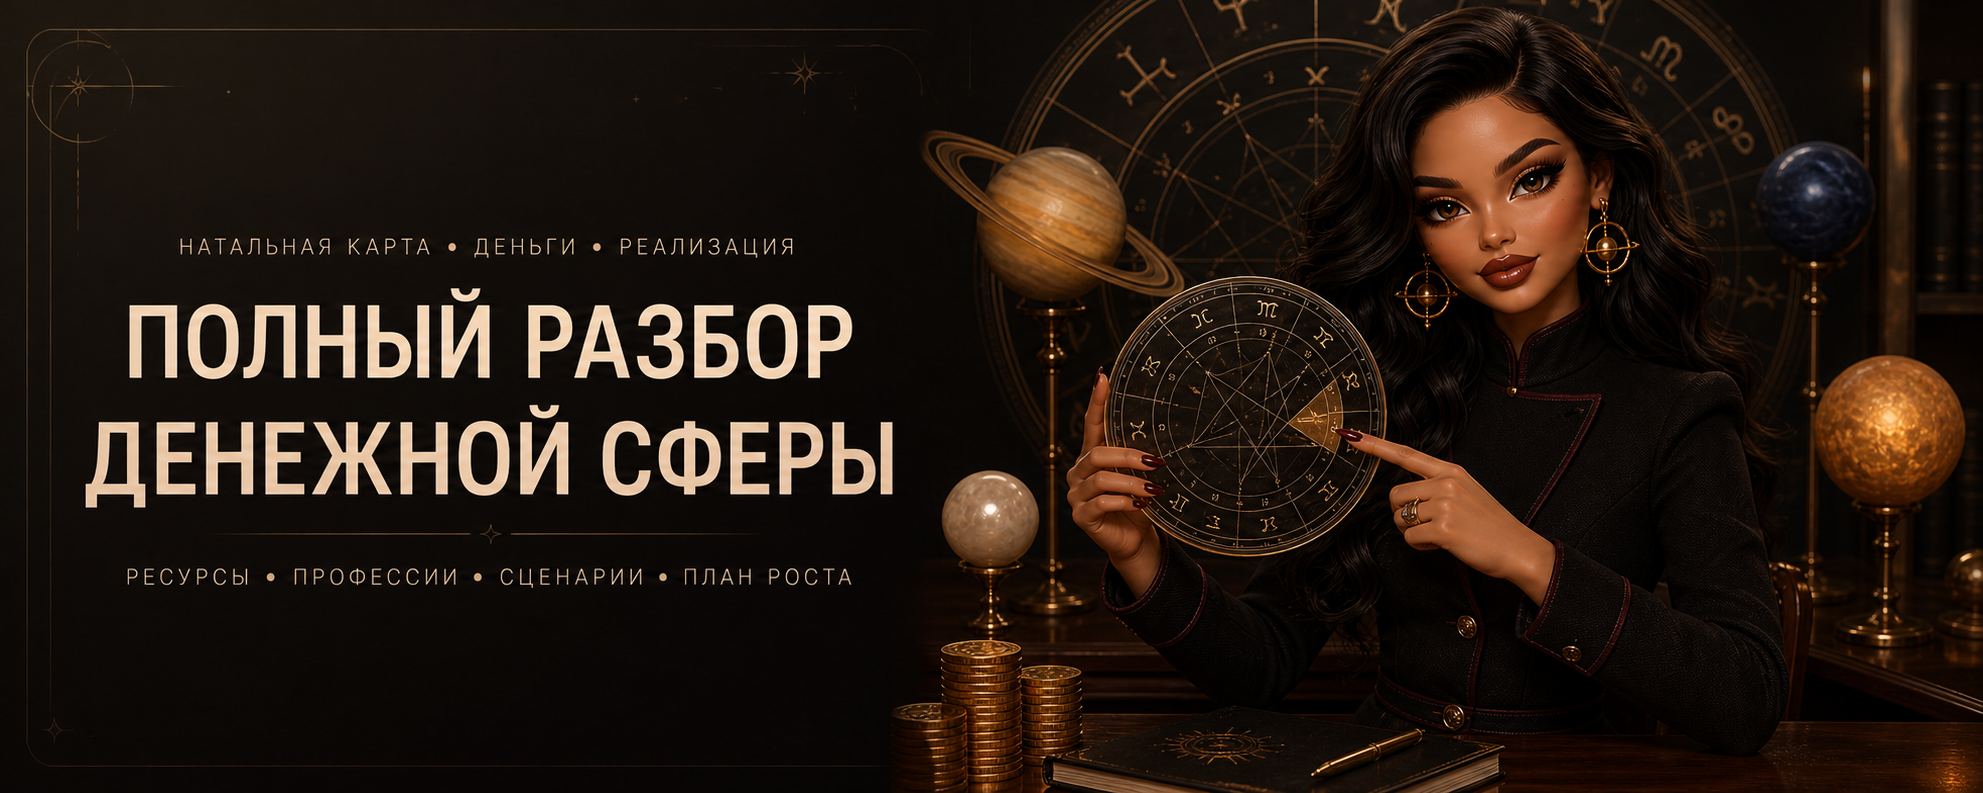
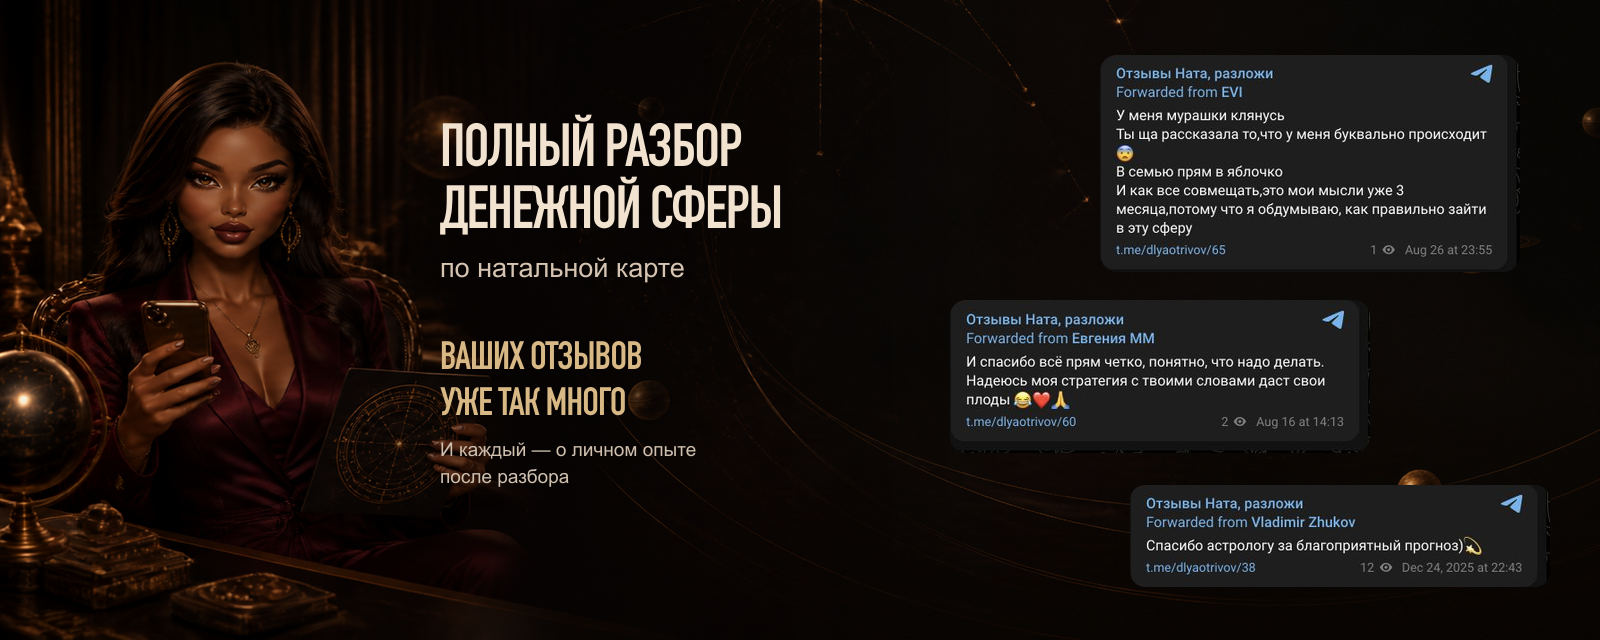
Добавить изображение к полному разбору

diff --git a/tests/test_delivery_pdf.py b/tests/test_delivery_pdf.py
@@ -65,13 +65,16 @@ async def test_full_reading_offer_uses_exact_caption_and_prefilled_contact_link(
 
     await worker.deliver("order-1")
 
+    photo_args = bot.send_photo.await_args.args
+    assert photo_args[0] == 123456
+    assert Path(photo_args[1].path) == ASSET_DIRECTORY / "full_reading_offer.png"
     args = bot.send_message.await_args.args
     kwargs = bot.send_message.await_args.kwargs
     assert args == (123456, FULL_READING_CAPTION)
     button = kwargs["reply_markup"].inline_keyboard[0][0]
     assert button.text == "Хочу денежный разбор"
     assert parse_qs(urlparse(button.url).query) == {"text": [SALES_MESSAGE_TEXT]}
-    bot.send_photo.assert_not_awaited()
+    bot.send_photo.assert_awaited_once()
 
 
 @pytest.mark.asyncio

diff --git a/src/money_profile_bot/services/delivery.py b/src/money_profile_bot/services/delivery.py
@@ -84,6 +84,10 @@ class DeliveryWorker:
                         reply_markup=self._full_reading_trigger_keyboard(order.id),
                     )
                 elif item.kind == "full_reading_offer":
+                    await self.bot.send_photo(
+                        telegram_id,
+                        FSInputFile(self.avatars.full_reading_offer_image()),
+                    )
                     sent = await self.bot.send_message(
                         telegram_id,
                         FULL_READING_CAPTION,
